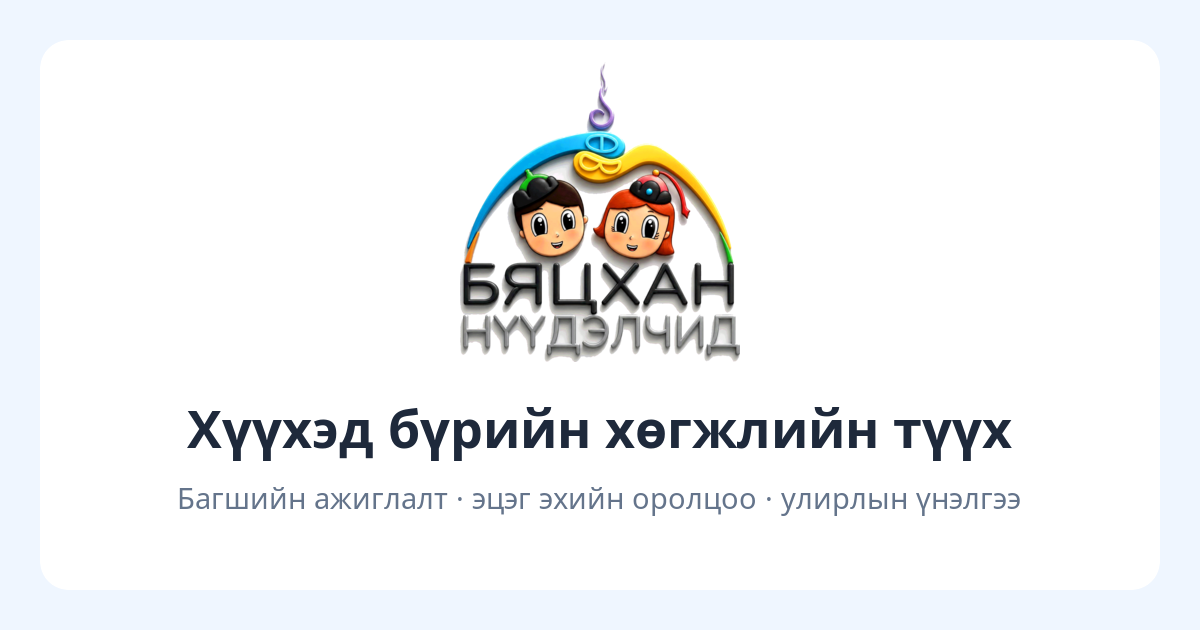
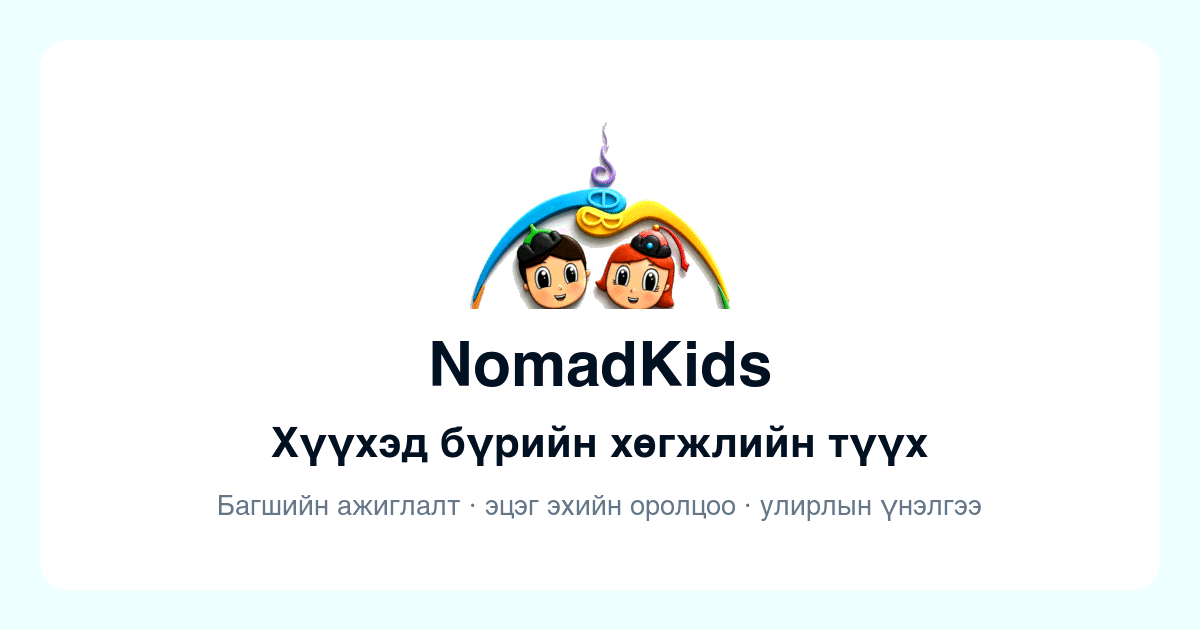
feat(brand): the product is NomadKids, not Бяцхан нүүдэлчид
`BRAND` in `lib/vocabulary.ts` carried the name of the *first kindergarten* to
use the system. That was right while there was one; it is wrong now that the
product is sold to others, because a second kindergarten's staff would open the
app and be greeted by a competitor's name. `nomadkids.mn` was already the
domain, so the header now agrees with the address bar.

One constant feeds the title, the manifest, the OpenGraph tags, the Apple web
app name and both shells, so the rename is one line — plus the places that had
written the name out by hand instead, which now read `BRAND` too (two `alt`
attributes in `app-shell`, one in `auth-shell`, two assertions in
`sidebar.test`).

**The drawn wordmark had to go with it.** `public/logo.png` has "БЯЦХАН
НҮҮДЭЛЧИД" baked into the artwork, so it cannot sit beside an `<h1>` reading
"NomadKids" — two names for one product, on the first screen anybody sees. Both
of its uses moved to `mark.png`, the same illustration with no lettering, and
the name is set in text beside it. `opengraph-image.png` is regenerated the same
way: composed from the mark rather than cropped from the logo, with the recipe
recorded in `docs/BRAND_ASSETS.md` so the next change is not archaeology.

`logo.png` is kept, unused, as the only full-size rendering of the original
artwork — a replacement wordmark will want it for reference.

★ `uppercase` came off both brand headings. It was invisible on Cyrillic, where
[…]

Changed region(s): [[0.1542, 0.1206, 0.8633, 0.754], [0.1233, 0.7841, 0.8633, 0.8143]]

diff --git a/apps/web/components/shell/auth-shell.tsx b/apps/web/components/shell/auth-shell.tsx
@@ -30,17 +30,32 @@ export function AuthShell({ children }: { children: ReactNode }) {
         */}
         <main className="w-full max-w-[440px] rounded-card border border-border bg-surface px-7 py-8 [overflow-wrap:anywhere] min-[900px]:shadow-sm">
           <div className="mb-[22px] flex items-center gap-3.5">
+            {/*
+              ★ `/mark.png`, not `/logo.png`, since the rename on 2026-09-06.
+              
+              `logo.png` has "БЯЦХАН НҮҮДЭЛЧИД" drawn into the artwork, so it
+              would now sit directly beside an `<h1>` reading "NomadKids" —
+              two different names for one product, on the first screen anybody
+              sees. `mark.png` is the same illustration with no lettering, and
+              the wordmark beside it is the name.
+            */}
             <Image
-              src="/logo.png"
-              alt="Бяцхан нүүдэлчид"
+              src="/mark.png"
+              alt={BRAND}
               width={54}
-              height={58}
+              height={39}
               className="w-[54px] shrink-0"
               style={{ height: "auto" }}
               priority
             />
             <div>
-              <h1 className="text-title font-semibold uppercase leading-[1.3] tracking-[.01em] text-ink">
+              {/*
+                ★ No `uppercase`. It was there for "Бяцхан нүүдэлчид", where
+                Cyrillic caps read as a wordmark; applied to "NomadKids" it
+                produces "NOMADKIDS" and destroys the camel case that *is* the
+                brand's spelling — the one the domain and the invoices use.
+              */}
+              <h1 className="text-title font-semibold leading-[1.3] tracking-[.01em] text-ink">
                 {BRAND}
               </h1>
               <p className="mt-1 text-compact leading-snug text-muted">
@@ -70,22 +85,30 @@ export function AuthShell({ children }: { children: ReactNode }) {
             ★ This was capped at 210px, and the cap was a workaround, not a
             design: the old `/logo-160.png` was 149px wide, so 380 rendered
             visibly soft and a blurred logo on the first screen anyone sees is
-            worse than a small sharp one.
+            worse than a small sharp one. The cap is gone.
 
-            `/logo.png` is regenerated from the 1254² original, so the cap has
-            nothing left to protect against and the panel gets the size it was
-            drawn for. 300 on a 2× display asks for 600 source pixels; there are
-            1071.
+            ★★ `/mark.png` since the rename — the lettering in `/logo.png` says
+            "БЯЦХАН НҮҮДЭЛЧИД", which is now a different product's name. The
+            wordmark below carries the name instead, in text, where it can be
+            read by a screen reader and changed without an image editor.
+
+            300 wide on a 2× display asks for 600 source pixels; `mark.png` has
+            512, so it renders at 256 CSS px sharp. The panel is decorative and
+            `aria-hidden`, so the size is a judgement about how it looks rather
+            than about what it tells anybody.
           */}
           <Image
-            src="/logo.png"
+            src="/mark.png"
             alt=""
             width={300}
-            height={322}
+            height={219}
             className="mx-auto w-[300px] max-w-full"
             style={{ height: "auto" }}
           />
-          <p className="mt-6 text-title font-semibold text-ink">Хүүхэд бүрийн хөгжлийн түүх</p>
+          <p className="mt-5 text-display font-semibold tracking-[.01em] text-ink">{BRAND}</p>
+          {/* Tight under the wordmark: the two read as one block, name then
+              promise, rather than as two competing headings. */}
+          <p className="mt-2.5 text-title font-semibold text-ink">Хүүхэд бүрийн хөгжлийн түүх</p>
           <p className="mx-auto mt-2.5 max-w-[34ch] text-body leading-relaxed text-muted">
             Багшийн ажиглалт, эцэг эхийн оролцоо, улирлын үнэлгээ — бүгд нэг дор, хүүхэд тус бүрийн
             цахим хувийн хавтаст.

diff --git a/apps/web/lib/vocabulary.ts b/apps/web/lib/vocabulary.ts
@@ -30,14 +30,26 @@
 /**
  * The product, in the sidebar and the phone header.
  *
- * ★ The kindergarten's own name, which is what the logo beside it already says.
+ * ★ **The platform's name, not a kindergarten's** — changed 2026-09-06.
  *
- * The brand used to be a description of the product — "Хүүхдийн хөгжлийн цахим
- * хувийн хавтас" — which put the word "хавтас" in the one place a user cannot
- * navigate away from, competing with the section actually called that. A brand
- * naming the client rather than the feature leaves the noun free.
+ * It read "Бяцхан нүүдэлчид", which is the name of the first kindergarten to
+ * use the system. That was right while there was one; it is wrong now that the
+ * product is sold to others, because a second kindergarten's staff would open
+ * the app and be greeted by a competitor's name. `nomadkids.mn` was already the
+ * domain, so this makes the name in the header agree with the name in the
+ * address bar.
+ *
+ * ★★ It stays a **Latin** wordmark in an otherwise Mongolian interface, which
+ * is deliberate rather than an oversight: it is a proper noun, the same one the
+ * domain and the invoices carry, and transliterating it would create a second
+ * name for one product. Every other string a user reads is still Mongolian.
+ *
+ * ★★★ The brand before that was a description — "Хүүхдийн хөгжлийн цахим хувийн
+ * хавтас" — which put the word "хавтас" in the one place a user cannot navigate
+ * away from, competing with the section actually called that. A name rather
+ * than a feature leaves the noun free, and that reasoning still holds.
  */
-export const BRAND = "Бяцхан нүүдэлчид";
+export const BRAND = "NomadKids";
 
 /** The RFP §4 record: "Миний тухай", ages 2–5, the album, the birthday notes. */
 export const PORTFOLIO = "Цахим хувийн хавтас";

diff --git a/apps/web/test/sidebar.test.tsx b/apps/web/test/sidebar.test.tsx
@@ -2,6 +2,7 @@ import { screen, waitFor, within } from "@testing-library/react";
 import { beforeEach, describe, expect, it, vi } from "vitest";
 import { renderWithProviders, sessionFor, setPathname, stubApi } from "./support/render";
 import AppLayout from "@/app/(app)/layout";
+import { BRAND } from "@/lib/vocabulary";
 
 /**
  * The sidebar: brand, icons, active state, role and the way out.
@@ -112,7 +113,7 @@ describe("the brand header", () => {
     renderShell(["TEACHER"]);
     const nav = await sidebar();
 
-    const mark = within(nav).getByAltText("Бяцхан нүүдэлчид");
+    const mark = within(nav).getByAltText(BRAND);
     expect(mark).toBeInTheDocument();
     // `/mark.png` — the brand mark regenerated from the 1254² original. The
     // filename is asserted rather than merely "some image", because the sidebar
@@ -125,7 +126,7 @@ describe("the brand header", () => {
     renderShell(["TEACHER"]);
     const nav = await sidebar();
 
-    expect(within(nav).getByAltText("Бяцхан нүүдэлчид").closest("a")).toHaveAttribute("href", "/");
+    expect(within(nav).getByAltText(BRAND).closest("a")).toHaveAttribute("href", "/");
   });
 });
 

diff --git a/apps/web/components/shell/app-shell.tsx b/apps/web/components/shell/app-shell.tsx
@@ -843,7 +843,7 @@ function Brand({ subtitle }: { subtitle: string }) {
       <span className="grid size-10 shrink-0 place-items-center rounded-control bg-primary-soft p-0.5">
         <Image
           src="/mark.png"
-          alt="Бяцхан нүүдэлчид"
+          alt={BRAND}
           width={36}
           height={26}
           className="w-full object-contain"
@@ -1465,7 +1465,7 @@ function MobileHeader({ subtitle }: { subtitle: string }) {
         <span className="grid size-[34px] shrink-0 place-items-center rounded-control bg-primary-soft p-0.5">
           <Image
             src="/mark.png"
-            alt="Бяцхан нүүдэлчид"
+            alt={BRAND}
             width={30}
             height={22}
             className="w-full object-contain"

diff --git a/apps/api/prisma/demo-data.ts b/apps/api/prisma/demo-data.ts
@@ -39,6 +39,15 @@
 import argon2 from "argon2";
 import type { PrismaClient } from "../src/generated/prisma/client";
 
+/**
+ * ★ Still "Бяцхан нүүдэлчид", and deliberately so after the 2026-09-06 rename.
+ *
+ * This is a **kindergarten's** name, not the product's. NomadKids is the
+ * platform; "Бяцхан нүүдэлчид" is the first kindergarten on it, and a demo
+ * tenant named after a real customer is exactly what a demo tenant should be.
+ * Renaming it to "NomadKids (жишээ)" would claim the platform is a
+ * kindergarten.
+ */
 export const DEMO_KINDERGARTEN_NAME = "Бяцхан нүүдэлчид (жишээ)";
 
 export interface DemoSeedOptions {

diff --git a/apps/api/prisma/seed-showcase.ts b/apps/api/prisma/seed-showcase.ts
@@ -48,6 +48,10 @@ const prisma = new PrismaClient({
 /**
  * Named so it cannot be mistaken for a real kindergarten in a list of them.
  * Overridable, because a second walkthrough may want its own copy.
+ *
+ * ★ Kept as "Бяцхан нүүдэлчид" through the 2026-09-06 rename: that is a
+ * kindergarten's name and NomadKids is the platform it runs on. See
+ * `demo-data.ts`.
  */
 const KINDERGARTEN_NAME = process.env.SEED_SHOWCASE_NAME ?? "Бяцхан нүүдэлчид (үзүүлэн)";
 

diff --git a/docs/BRAND_ASSETS.md b/docs/BRAND_ASSETS.md
@@ -37,10 +37,25 @@ sit directly on the tops of `БЯЦХАН` — there is no gap. A crop at 790 ta
 letter tops with it; one at 700 cuts the chins off.
 
 ★★ **The wordmark is cropped out of every icon.** At 16 px — the size that
-actually appears in a browser tab — `БЯЦХАН НҮҮДЭЛЧИД` is four grey smudges.
-The arc and the two faces still read as this product. The full logo appears in
-exactly one generated file, `opengraph-image.png`, which is never rendered below
-600 px wide.
+actually appears in a browser tab — lettering is four grey smudges. The arc and
+the two faces still read as this product.
+
+★★★ **The drawn wordmark is now used nowhere at all — 2026-09-06.**
+
+The product was renamed from "Бяцхан нүүдэлчид" to **NomadKids**, and the
+lettering baked into `logo.png` says the old name. That artwork therefore
+cannot appear anywhere the new name also appears, which is everywhere: the two
+together read as two products.
+
+So both places that used it changed to `mark.png`, which is the same
+illustration with no lettering, and the name is set in **text** beside it —
+`AuthShell`, and `opengraph-image.png`, which is now composed rather than
+cropped. Text is the better home for a name regardless: a screen reader can
+read it, and the next rename is a string rather than an image editor.
+
+`public/logo.png` is kept, unused, because it is the only rendering of the
+original artwork at full size and a replacement wordmark will want it for
+reference. **Do not reintroduce it into a screen** without new lettering.
 
 ## What is generated, and why each one differs
 
@@ -49,12 +64,40 @@ exactly one generated file, `opengraph-image.png`, which is never rendered below
 | `app/favicon.ico`                   | 48, 32, 16  | transparent        | The URL crawlers, feed readers and old browsers request without being told to. Next's middleware matcher already names it                                                                                    |
 | `app/icon.png`                      | 512²        | transparent        | `<link rel="icon">`. Transparent so it reads on a light **and** a dark tab strip — the mark's own blue and yellow carry it either way                                                                        |
 | `app/apple-icon.png`                | 180²        | **opaque white**   | iOS composites alpha onto black. A transparent apple-touch-icon is a black tile with two faces floating in it                                                                                                |
-| `app/opengraph-image.png`           | 1200 × 630  | white on `#eff6ff` | Link previews. The one place the wordmark belongs                                                                                                                                                            |
+| `app/opengraph-image.png`           | 1200 × 630  | white on `#eff6ff` | Link previews. **Composed, not cropped** since the rename: `mark.png` at 260 wide over a rounded white card, with "NomadKids" and the strapline set in Helvetica. Regenerate with the recipe below           |
 | `public/icons/pwa-192.png`          | 192²        | opaque white       | manifest, `purpose: "any"`                                                                                                                                                                                   |
 | `public/icons/pwa-512.png`          | 512²        | opaque white       | manifest, `purpose: "any"`                                                                                                                                                                                   |
 | `public/icons/pwa-maskable-512.png` | 512²        | opaque white       | manifest, `purpose: "maskable"` — **the mark is drawn at 70% width**, inside the safe zone an Android launcher's circular crop leaves. The `any` icons fill their square and would lose both ends of the arc |
-| `public/logo.png`                   | 1071 × 1149 | transparent        | The auth screen's panel                                                                                                                                                                                      |
+| `public/logo.png`                   | 1071 × 1149 | transparent        | **Unused since 2026-09-06** — its drawn wordmark says the old name. Kept as the reference rendering of the original artwork                                                                                  |
 | `public/mark.png`                   | 512 × 373   | transparent        | The sidebar tile                                                                                                                                                                                             |
+
+### Regenerating the link preview
+
+```bash
+cd apps/web
+magick -size 1120x550 xc:none -fill white \
+  -draw 'roundrectangle 0,0 1119,549 28,28' /tmp/card.png
+magick -size 1200x630 xc:'#eff6ff' /tmp/card.png -geometry +40+40 -composite /tmp/base.png
+
+magick /tmp/base.png \
+  \( public/mark.png -resize 260x \) -gravity north -geometry +0+120 -composite \
+  -font Helvetica-Bold -pointsize 62 -fill '#0f172a' -gravity north -annotate +0+338 'NomadKids' \
+  -font Helvetica-Bold -pointsize 42 -fill '#0f172a' -gravity north -annotate +0+424 'Хүүхэд бүрийн хөгжлийн түүх' \
+  -font Helvetica -pointsize 27 -fill '#64748b' -gravity north \
+  -annotate +0+494 'Багшийн ажиглалт · эцэг эхийн оролцоо · улирлын үнэлгээ' \
+  /tmp/og.png
+
+magick /tmp/og.png -dither FloydSteinberg -colors 256 \
+  -strip -define png:compression-level=9 PNG8:app/opengraph-image.png
+```
+
+★ **Helvetica, not the app's own type.** The web app sets no webfont — it uses
+the system stack — so there is no project font file to point ImageMagick at,
+and Helvetica is what a Mac renders that stack as. It also covers Cyrillic,
+which is the constraint that rules most candidates out.
+
+★★ Keep `opengraph-image.alt.txt` in step. It is what a screen reader announces
+in place of this image, and it names the product.
 
 The OpenGraph type is set in `app/layout.tsx`; the manifest in `app/manifest.ts`.
 Neither lists the icon files — `favicon.ico`, `icon.png` and `apple-icon.png` are
